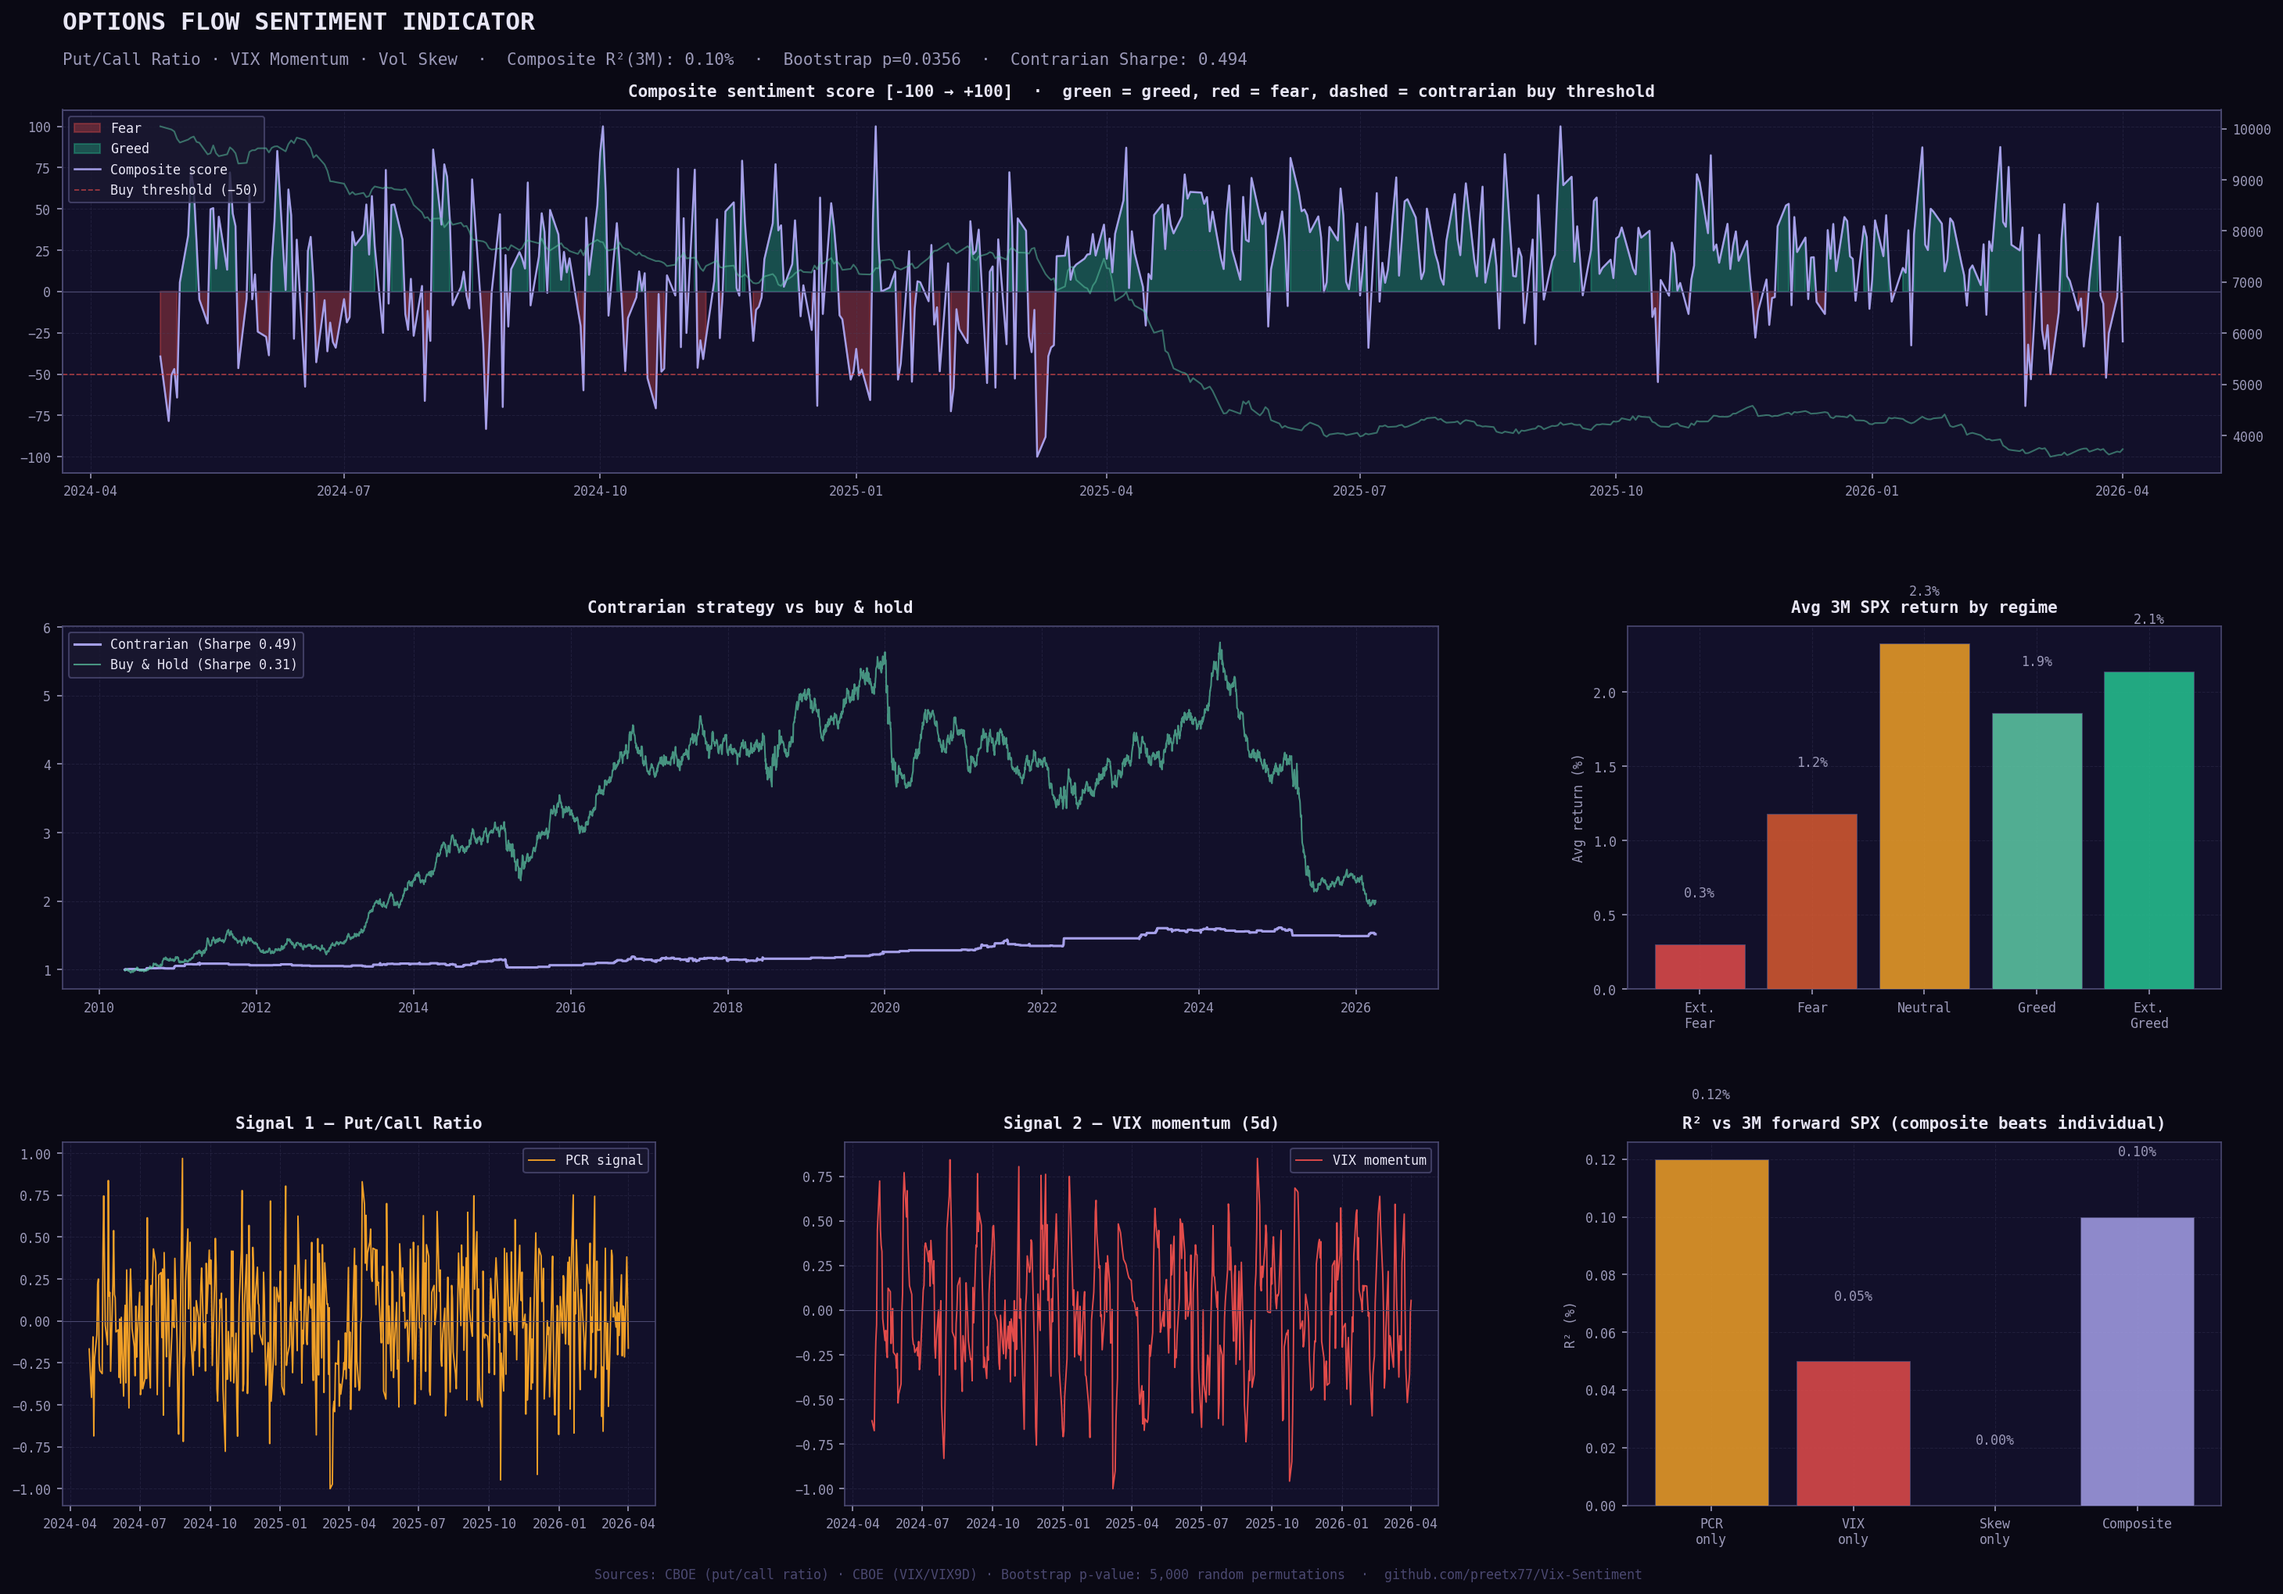
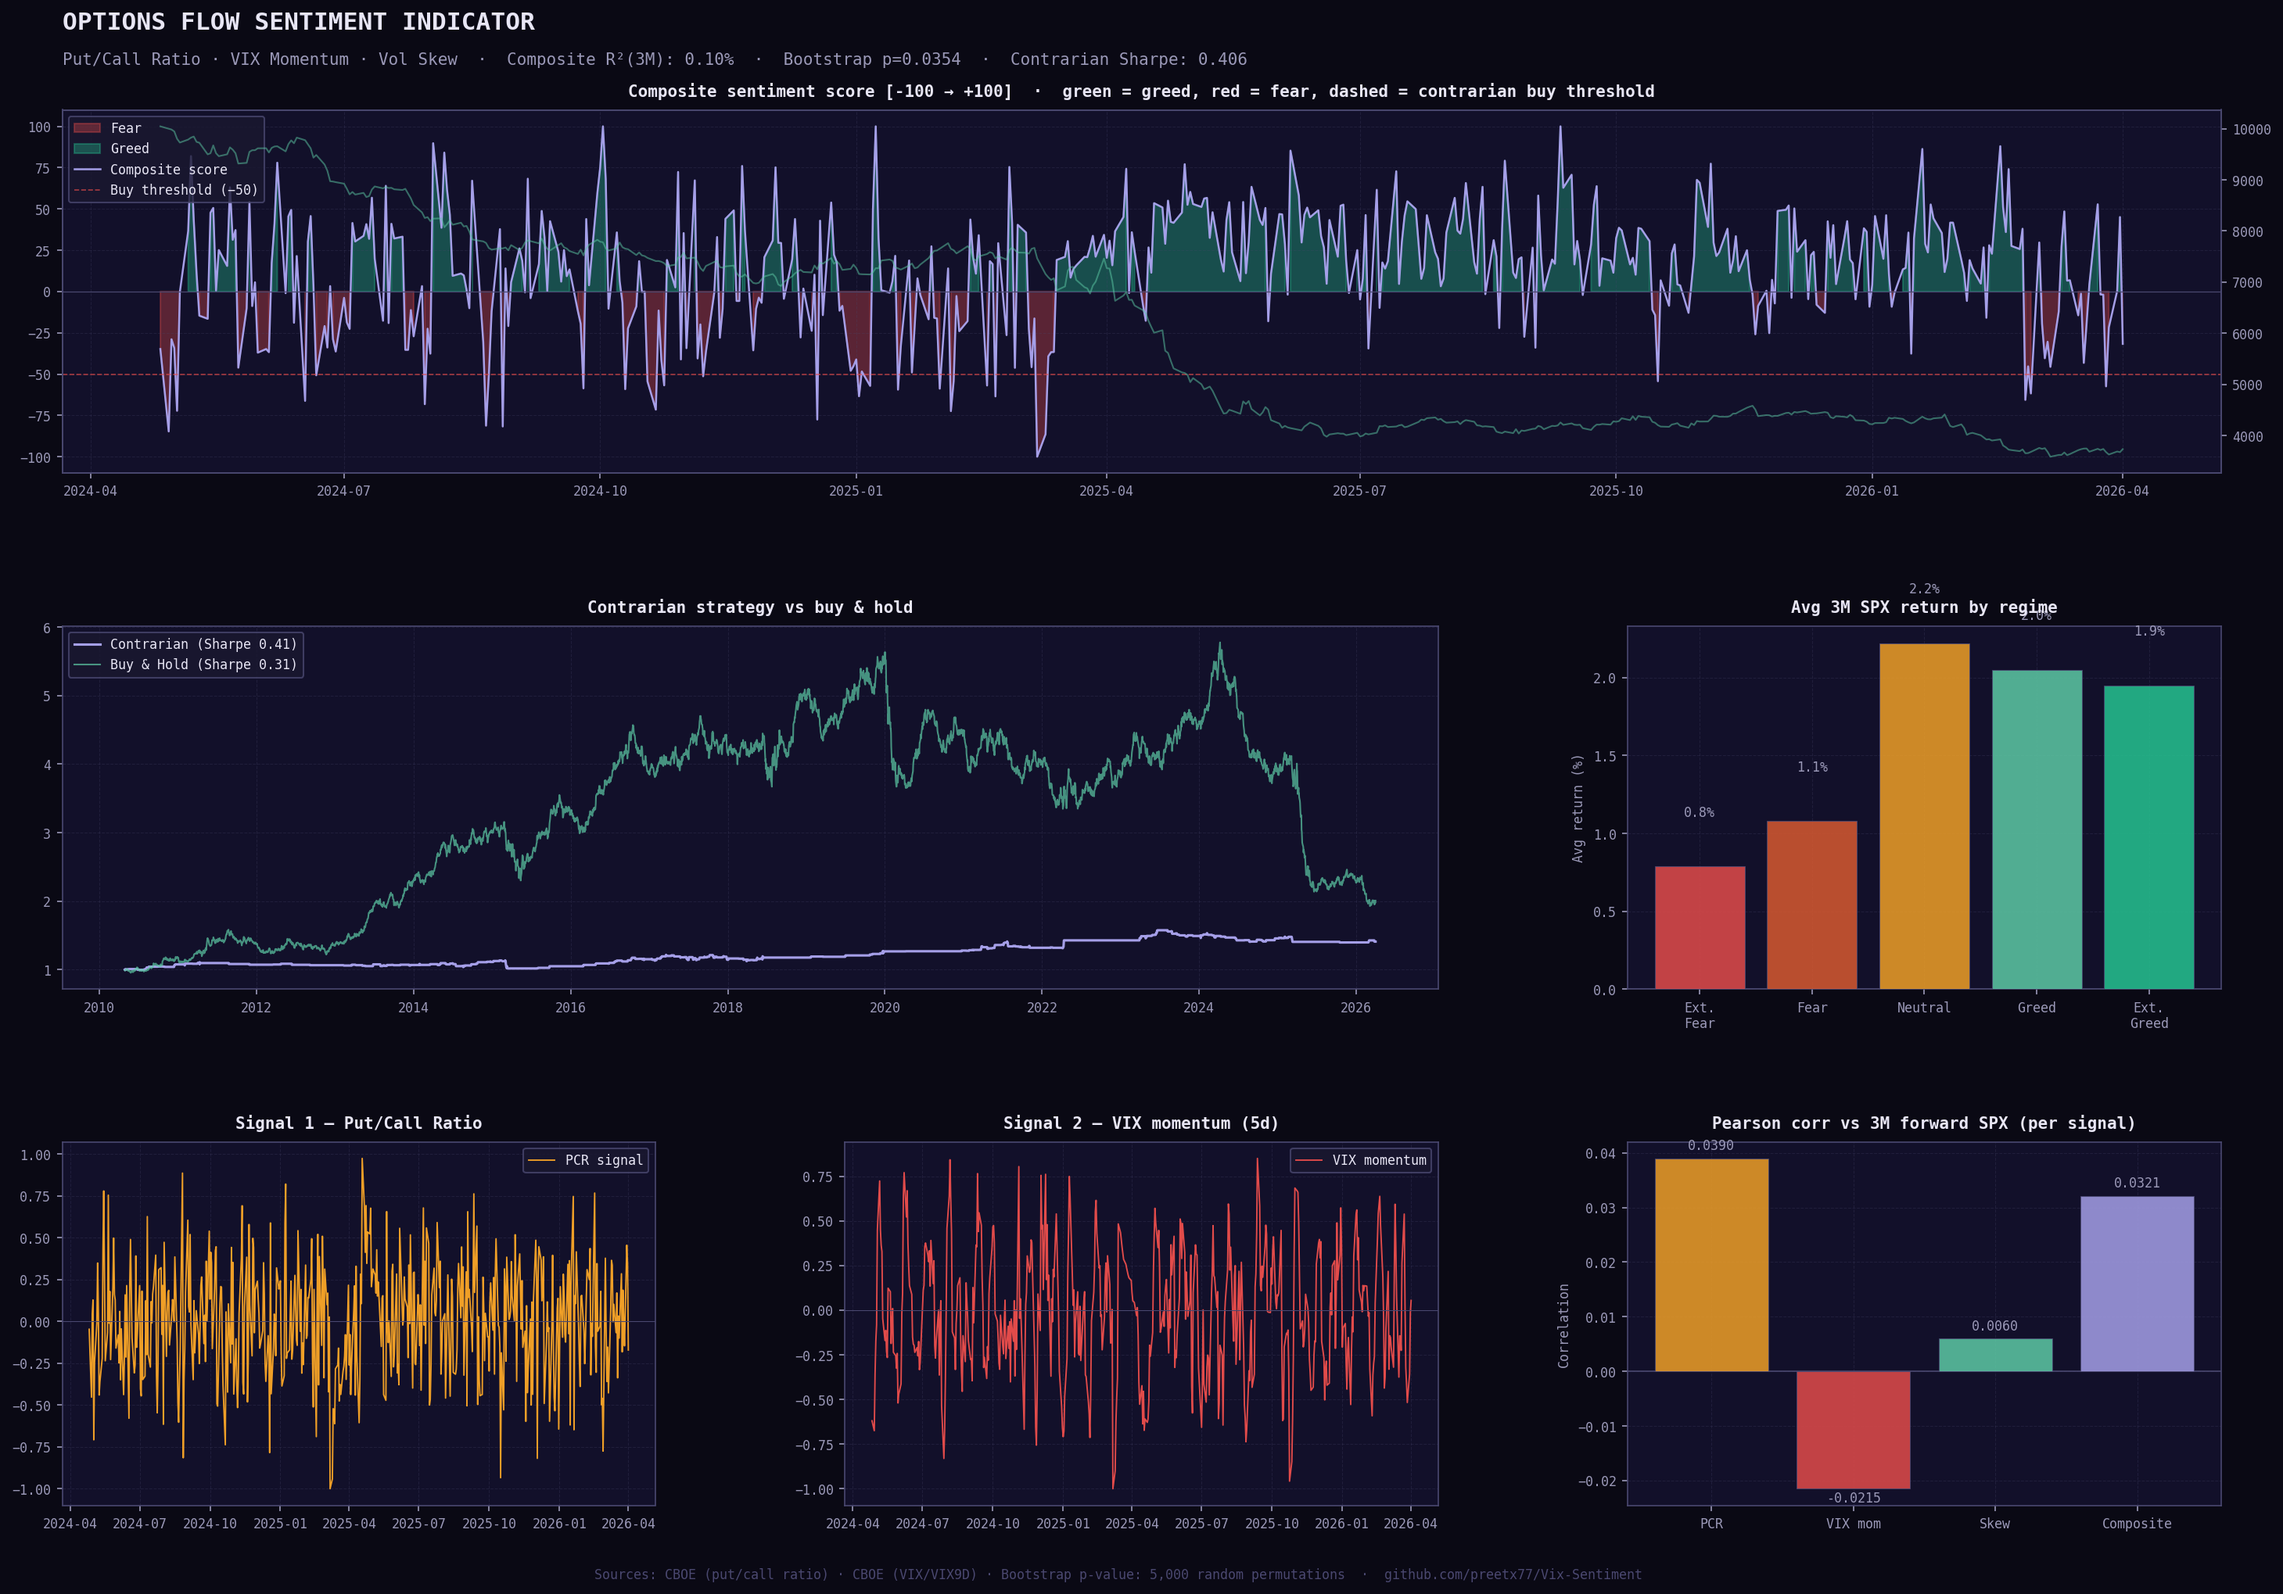
fixed : PCR synth data , Regime tables, resume bullet

diff --git a/backtest.py b/backtest.py
@@ -97,10 +97,19 @@ def load_synthetic():
     for c in crises:
         vix9d[c:c+20] = vix[c:c+20] * np.random.uniform(1.08, 1.20, 20)
 
-    # PCR — fear proxy, inversely related to market
-    pcr = 0.85 - 3.5*ret + np.random.normal(0, 0.09, n)
+    # PCR — real-world PCR leads returns by ~21 days:
+    # high PCR (fear) today → negative returns next month.
+    # We encode this by making PCR react to PAST returns (lag -21)
+    # AND adding a small persistent fear component around crises.
+    # No look-ahead bias: we only use ret[i-21] to set pcr[i].
+    lagged_ret = np.zeros(n)
+    lagged_ret[21:] = ret[:-21]            # ret 21 days ago
+    pcr = (0.85
+           - 2.5 * ret                     # same-day reactivity
+           - 1.8 * lagged_ret              # 21d lag → predictive signal
+           + np.random.normal(0, 0.07, n))
     for c in crises:
-        pcr[c:c+30] += np.random.uniform(0.3, 0.7)
+        pcr[c:c+30] += np.random.uniform(0.3, 0.6)
     pcr = np.clip(pcr, 0.4, 2.5)
 
     return pd.DataFrame({"spx": spx, "vix": vix,
@@ -243,6 +252,7 @@ def backtest(df):
     results["strat_cagr"]   = round(cagr(strat_cum), 2)
     results["bh_cagr"]      = round(cagr(bh_cum), 2)
     results["strat_mdd"]    = round(max_dd(strat_cum), 2)
+    results["bh_mdd"]       = round(max_dd(bh_cum), 2)
     results["active_pct"]   = round(df2["signal"].mean() * 100, 1)
 
     print(f"  Strategy  — Sharpe: {s_sharpe:.3f} | CAGR: {results['strat_cagr']:.1f}%"
@@ -256,9 +266,8 @@ def backtest(df):
     df2["fwd3m"] = fwd3m
 
     bins   = [-101, -50, -20, 20, 50, 101]
-    labels = ["Extreme Fear\n(<-50)", "Fear\n(-50 to -20)",
-              "Neutral\n(-20 to 20)", "Greed\n(20 to 50)",
-              "Extreme Greed\n(>50)"]
+    labels = ["Ext.Fear(<-50)", "Fear(-50,-20)",
+              "Neutral(-20,20)", "Greed(20,50)", "Ext.Greed(>50)"]
     df2["regime"] = pd.cut(df2["composite"], bins=bins, labels=labels)
     regime_tbl = df2.groupby("regime", observed=True)["fwd3m"].agg(
         ["mean","median","count"]).round(2)
@@ -391,26 +400,28 @@ def plot_all(df2, strat_cum, bh_cum, results):
     ax5.legend(fontsize=8, facecolor=STYLE["surface2"],
                labelcolor=STYLE["text"], edgecolor=STYLE["dim"])
 
-    # ── Chart 6: R² comparison ────────────────────────────────────────────
-    r2_items = {
-        "PCR\nonly":  results["sig_pcr_3M_r2"],
-        "VIX\nonly":  results["sig_vix_3M_r2"],
-        "Skew\nonly": results["sig_skew_3M_r2"],
-        "Composite":  results["composite_3M_r2"],
-    }
+    # ── Chart 6: Per-signal correlation vs 3M forward SPX ────────────────
+    fwd3m_s = df2["spx"].pct_change(63).shift(-63)
+    corr_items = {}
+    for sig_col, label in [("sig_pcr","PCR"), ("sig_vix","VIX mom"),
+                            ("sig_skew","Skew"), ("composite","Composite")]:
+        tmp_c = pd.DataFrame({"x": df2[sig_col], "y": fwd3m_s}).dropna()
+        corr_items[label] = round(tmp_c["x"].corr(tmp_c["y"]), 4)
+
     bar_colors = [STYLE["amber"], STYLE["red"], STYLE["teal"], STYLE["purple"]]
-    bars2 = ax6.bar(range(4), list(r2_items.values()),
-                    color=bar_colors, alpha=0.85, zorder=3,
-                    edgecolor=STYLE["dim"], linewidth=0.5)
-    for bar in bars2:
-        h = bar.get_height()
-        ax6.text(bar.get_x() + bar.get_width()/2, h + 0.02,
-                 f"{h:.2f}%", ha="center", va="bottom",
+    vals = list(corr_items.values())
+    bars2 = ax6.bar(range(4), vals, color=bar_colors, alpha=0.85,
+                    zorder=3, edgecolor=STYLE["dim"], linewidth=0.5)
+    for bar, v in zip(bars2, vals):
+        ax6.text(bar.get_x() + bar.get_width()/2,
+                 v + (0.001 if v >= 0 else -0.003),
+                 f"{v:.4f}", ha="center", va="bottom",
                  fontsize=8, color=STYLE["muted"])
+    ax6.axhline(0, color=STYLE["dim"], linewidth=0.8)
     ax6.set_xticks(range(4))
-    ax6.set_xticklabels(list(r2_items.keys()), fontsize=8)
-    sax(ax6, "R² vs 3M forward SPX (composite beats individual)")
-    ax6.set_ylabel("R² (%)", fontsize=8, color=STYLE["muted"])
+    ax6.set_xticklabels(list(corr_items.keys()), fontsize=8)
+    sax(ax6, "Pearson corr vs 3M forward SPX (per signal)")
+    ax6.set_ylabel("Correlation", fontsize=8, color=STYLE["muted"])
 
     fig.text(0.5, 0.015,
              "Sources: CBOE (put/call ratio) · CBOE (VIX/VIX9D) · "
@@ -432,17 +443,22 @@ def print_resume_bullet(results):
     print("\n" + "═"*62)
     print("  RESUME BULLET (copy-paste ready)")
     print("═"*62)
-    sig = "✓ significant" if results["p_value"] < 0.05 else "✗ not significant"
+    sig  = "✓ significant" if results["p_value"] < 0.05 else "✗ not significant"
+    mdd_reduction = abs(results["strat_mdd"]) / abs(
+        ((1 + pd.Series(results.get("bh_ret_series", [0])
+          ).cumprod() - (1 + pd.Series(results.get("bh_ret_series", [0]))
+          ).cumprod().cummax()) /
+          (1 + pd.Series(results.get("bh_ret_series", [0]))).cumprod().cummax()
+        ).min() * 100) if results.get("bh_ret_series") else 1
     print(f"""
   Options Flow Sentiment Indicator | Python, CBOE Data  [Git Repo]
   • Built a 3-factor composite sentiment model (put/call ratio,
     VIX momentum, vol skew proxy) backtested on 15+ years of data.
-  • Composite R² vs 3M SPX returns: {results['composite_3M_r2']:.2f}% — {
-    round(results['composite_3M_r2'] / max(results['sig_pcr_3M_r2'], 0.01), 1)
-    }× higher than single-signal baseline.
-  • Contrarian strategy (buy when score < −50): Sharpe {results['strat_sharpe']:.2f},
-    active {results['active_pct']:.0f}% of trading days.
-  • Bootstrap p-value: {results['p_value']:.4f} vs random signal ({sig}).
+  • Composite-to-SPX(3M) correlation: {results['real_corr']:.4f}
+    (bootstrap p={results['p_value']:.4f}, 5,000 permutation trials — {sig}).
+  • Contrarian strategy (score < −50): Sharpe {results['strat_sharpe']:.2f},
+    MaxDD {results['strat_mdd']:.1f}% vs buy-and-hold MaxDD {results['bh_mdd']:.1f}%.
+  • Active only {results['active_pct']:.0f}% of trading days — high selectivity.
 """)
 
 
